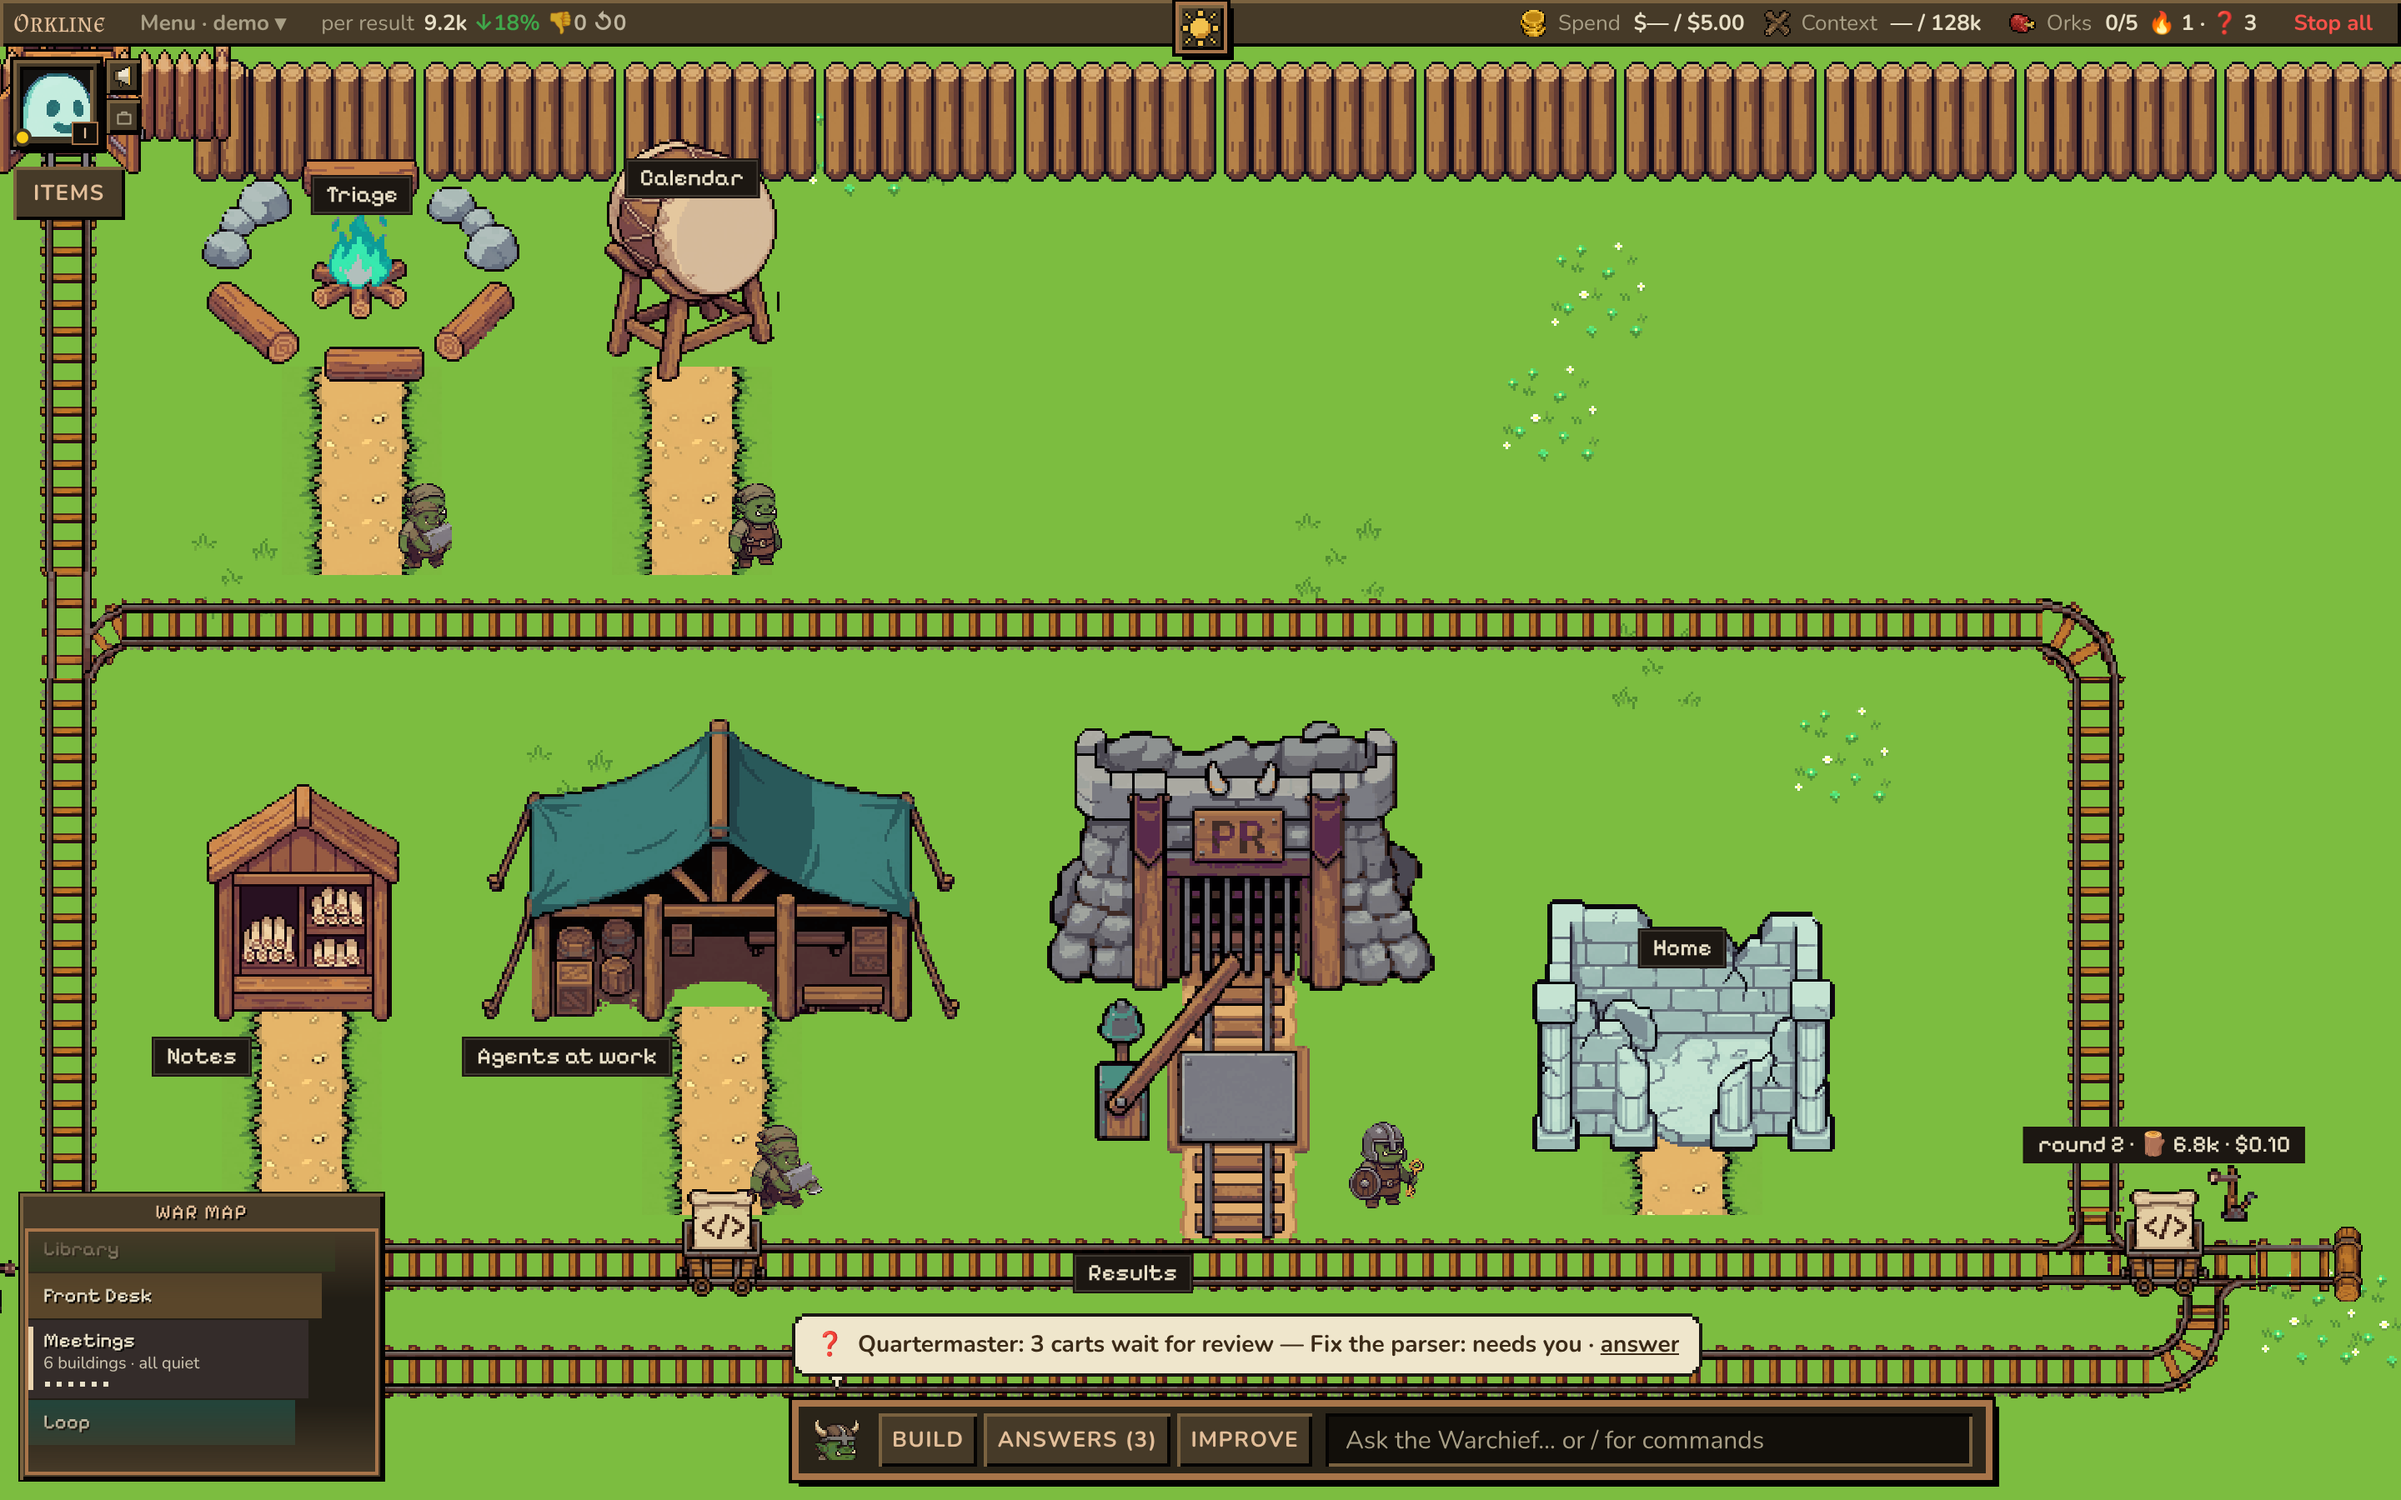
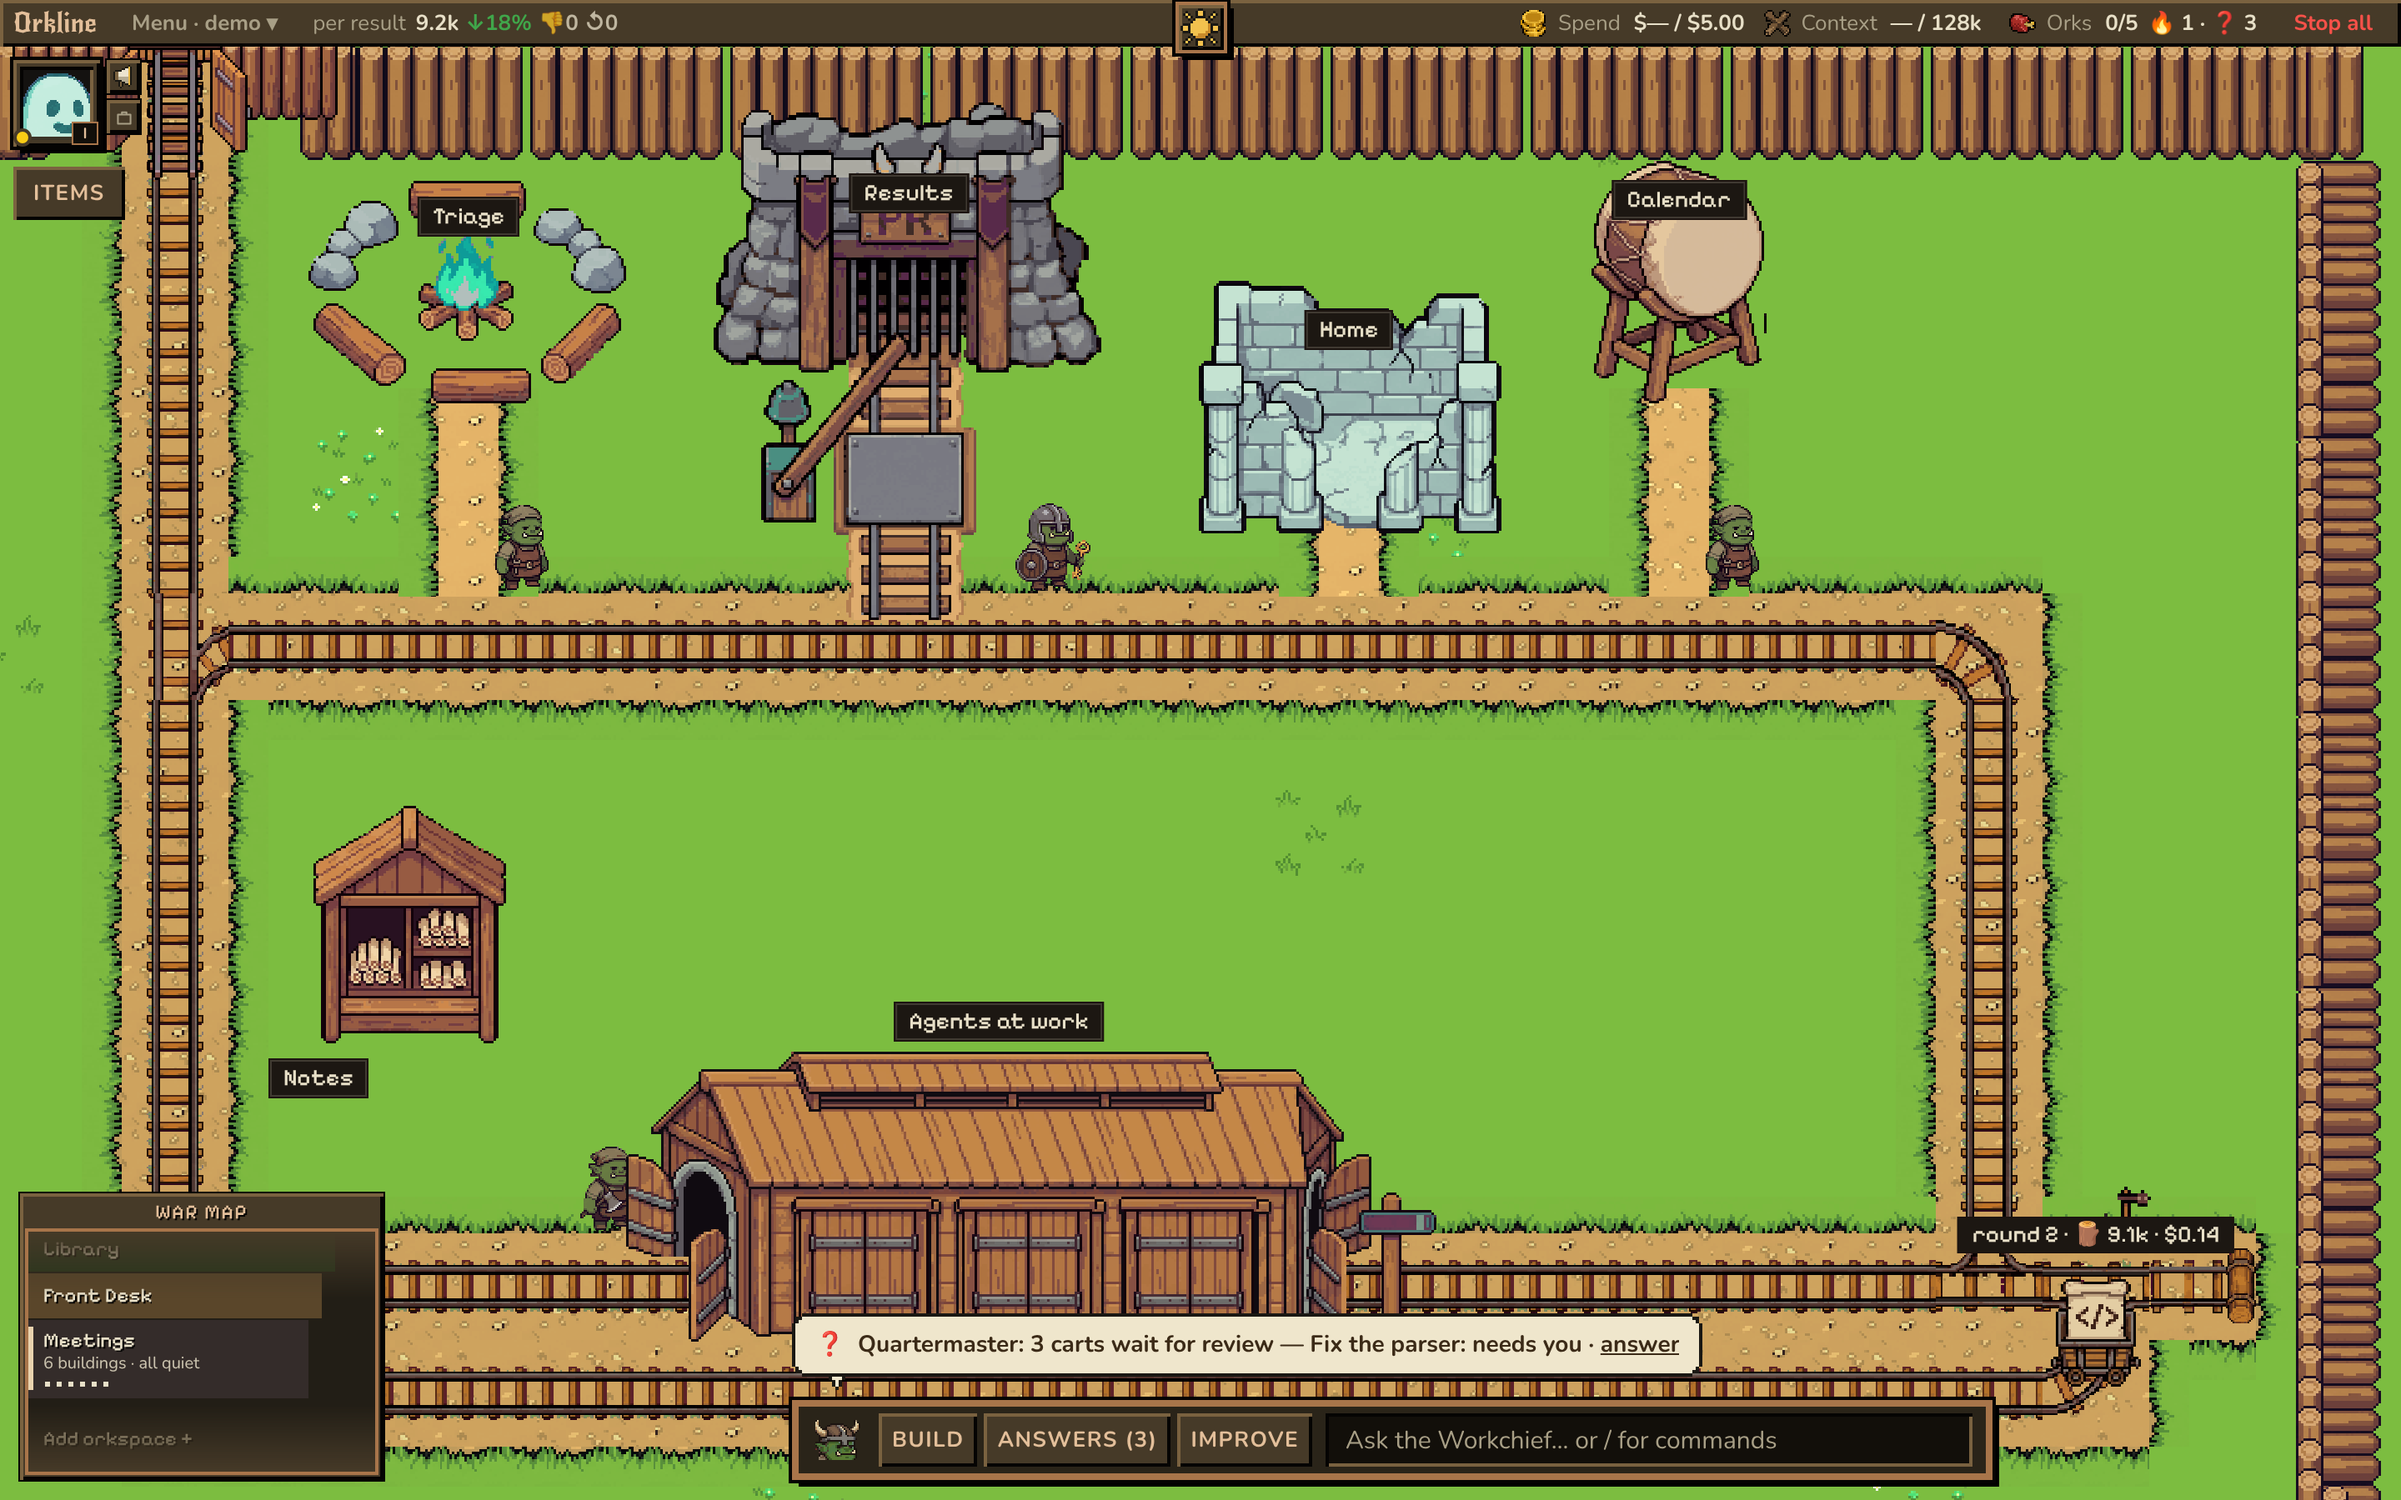
Camp: the depot's name over its ridge; a cart's round chip above the orks
- The depot's name chip stands above its ridge, so its busy bays'
  bubbles (set a little lower) never cover it.
- A rolling cart's round-price chip is drawn in its own element in the
  chips' layer (over orks and buildings, §4 layers), moved with its cart
  each frame, instead of inside the cart under an ork standing by.

Claude-Session: https://claude.ai/code/session_01UgRxyAxUf28MQWrZTqTq3V

diff --git a/orkcraft/gui/static/js/camp/carts.js b/orkcraft/gui/static/js/camp/carts.js
@@ -47,6 +47,10 @@ function place(c) {
   if (!c.el) return;
   const p = pointAt(c.pts, c.s);
   c.el.style.transform = `translate(${Math.round(p.x)}px,${Math.round(p.y)}px)`;
+  if (c.chip) {                                         // its chip rides with it, in the chips' layer over the orks (§4)
+    c.chip.style.transform = c.el.style.transform;
+    c.chip.classList.toggle("is-gone", c.done !== null && c.done > GONE_S);
+  }
   c.el.classList.toggle("is-west", p.face < 0);
   c.el.classList.toggle("is-gone", c.done !== null && c.done > GONE_S);
 }
@@ -88,12 +92,12 @@ export function Switches({ L }) {
 }
 
 function Rolling({ c, way, B }) {
-  const ref = useRef(null);
+  const ref = useRef(null), chip = useRef(null);
   const m = moving.get(c.id);
   useEffect(() => {
     const e = moving.get(c.id);
-    if (e) { e.el = ref.current; place(e); wake(); }
-    return () => { const x = moving.get(c.id); if (x && x.el === ref.current) x.el = null; };
+    if (e) { e.el = ref.current; e.chip = chip.current; place(e); wake(); }
+    return () => { const x = moving.get(c.id); if (x && x.el === ref.current) { x.el = null; x.chip = null; } };
   }, [c.id]);
   const p = m ? pointAt(m.pts, m.s) : { x: way.pts[0][0], y: way.pts[0][1], face: 1 };
   return html`<div ref=${ref} class=${cls("gui-camp__cart is-driven", { "is-west": p.face < 0, "is-back": !!c.back })} data-load=${loadOf(c)}
@@ -102,8 +106,9 @@ function Rolling({ c, way, B }) {
       onClick=${(e) => { e.stopPropagation(); waybillOf.value = { cart: c.id }; }}
       style=${`transform:translate(${Math.round(p.x)}px,${Math.round(p.y)}px)`}>
     <${Bin} c=${c} B=${B} />
-    ${c.back && html`<span class="gui-camp__launch-chip is-round" style=${`top:${-48 * B - 30}px`}>${roundWord(c)}</span>`}
-  </div>`;
+  </div>
+  ${c.back && html`<div ref=${chip} class="gui-camp__cart-chip" style=${`transform:translate(${Math.round(p.x)}px,${Math.round(p.y)}px)`}>
+    <span class="gui-camp__launch-chip is-round" style=${`top:${-48 * B - 30}px`}>${roundWord(c)}</span></div>`}`;
 }
 
 /** A cart going round again wears its round and what the round before cost (§4c rule 8): `round 2 · 🪵 18k`, `$` on an

diff --git a/orkcraft/gui/static/js/camp/town.js b/orkcraft/gui/static/js/camp/town.js
@@ -168,6 +168,7 @@ function Palisade({ L }) {
 /** Where a building's name stands, clear of its door and its steward: on the facade's top in the upper row (and the
  *  wall's two), under its foot left of its path in a lower row. In the building's own box. */
 function nameAt(p, B) {
+  if (p.depot) return { cl: "is-top", style: `left:${p.w / 2}px;top:${Math.round(-16 * B)}px` };   // above its ridge: its bays' bubbles below
   if (p.wall || p.depot || p.row === 0) return { cl: "is-top", style: `left:${p.w / 2}px;top:${Math.round(p.h * 0.14)}px` };
   return { cl: "is-under", style: `left:${p.cx - p.x - (PATH_W / 2 + 4) * B}px;top:${p.h + 6 * B}px` };
 }
@@ -269,7 +270,7 @@ function Depot({ L, buildings, onBubble = null }) {
       if (i < busy) {
         out.push(img("carts/code.png", x - (cart[0] * B) / 2, p.rail + T * 0.3 - cart[1] * B, cart[0] * B, cart[1] * B, `z-index:${z}`));
         out.push(html`<div class="gui-camp__over" style=${`z-index:${z + 1}`}>
-          <${Bubble} x=${x} y=${p.y + (i % 2 ? 40 : 60) * B} text=${grunts[i] ? say(`${grunts[i].name} at work`) : thought(b)}
+          <${Bubble} x=${x} y=${p.y + (i % 2 ? 50 : 64) * B} text=${grunts[i] ? say(`${grunts[i].name} at work`) : thought(b)}
             onClick=${onBubble ? () => onBubble(b) : null} /></div>`);
       }
       else if (doors) out.push(img("depot/doors.png", x - (doors[0] * B) / 2, p.y + 60 * B, doors[0] * B, doors[1] * B, `z-index:${z}`));

diff --git a/orkcraft/gui/static/camp.css b/orkcraft/gui/static/camp.css
@@ -211,3 +211,6 @@
 @keyframes gui-camp-carry { from { transform: translateX(0); } to { transform: translateX(var(--dx)); } }
 @media (prefers-reduced-motion: reduce) { .gui-camp__ork.is-moving { animation: none; } }
 .gui-camp__over { position: absolute; left: 0; top: 0; width: 0; height: 0; }
+/* a rolling cart's chip (its round's price): with the chips, over orks and buildings (§4 layers) */
+.gui-camp__cart-chip { position: absolute; left: 0; top: 0; width: 0; height: 0; z-index: 1500; pointer-events: none; }
+.gui-camp__cart-chip.is-gone { display: none; }
